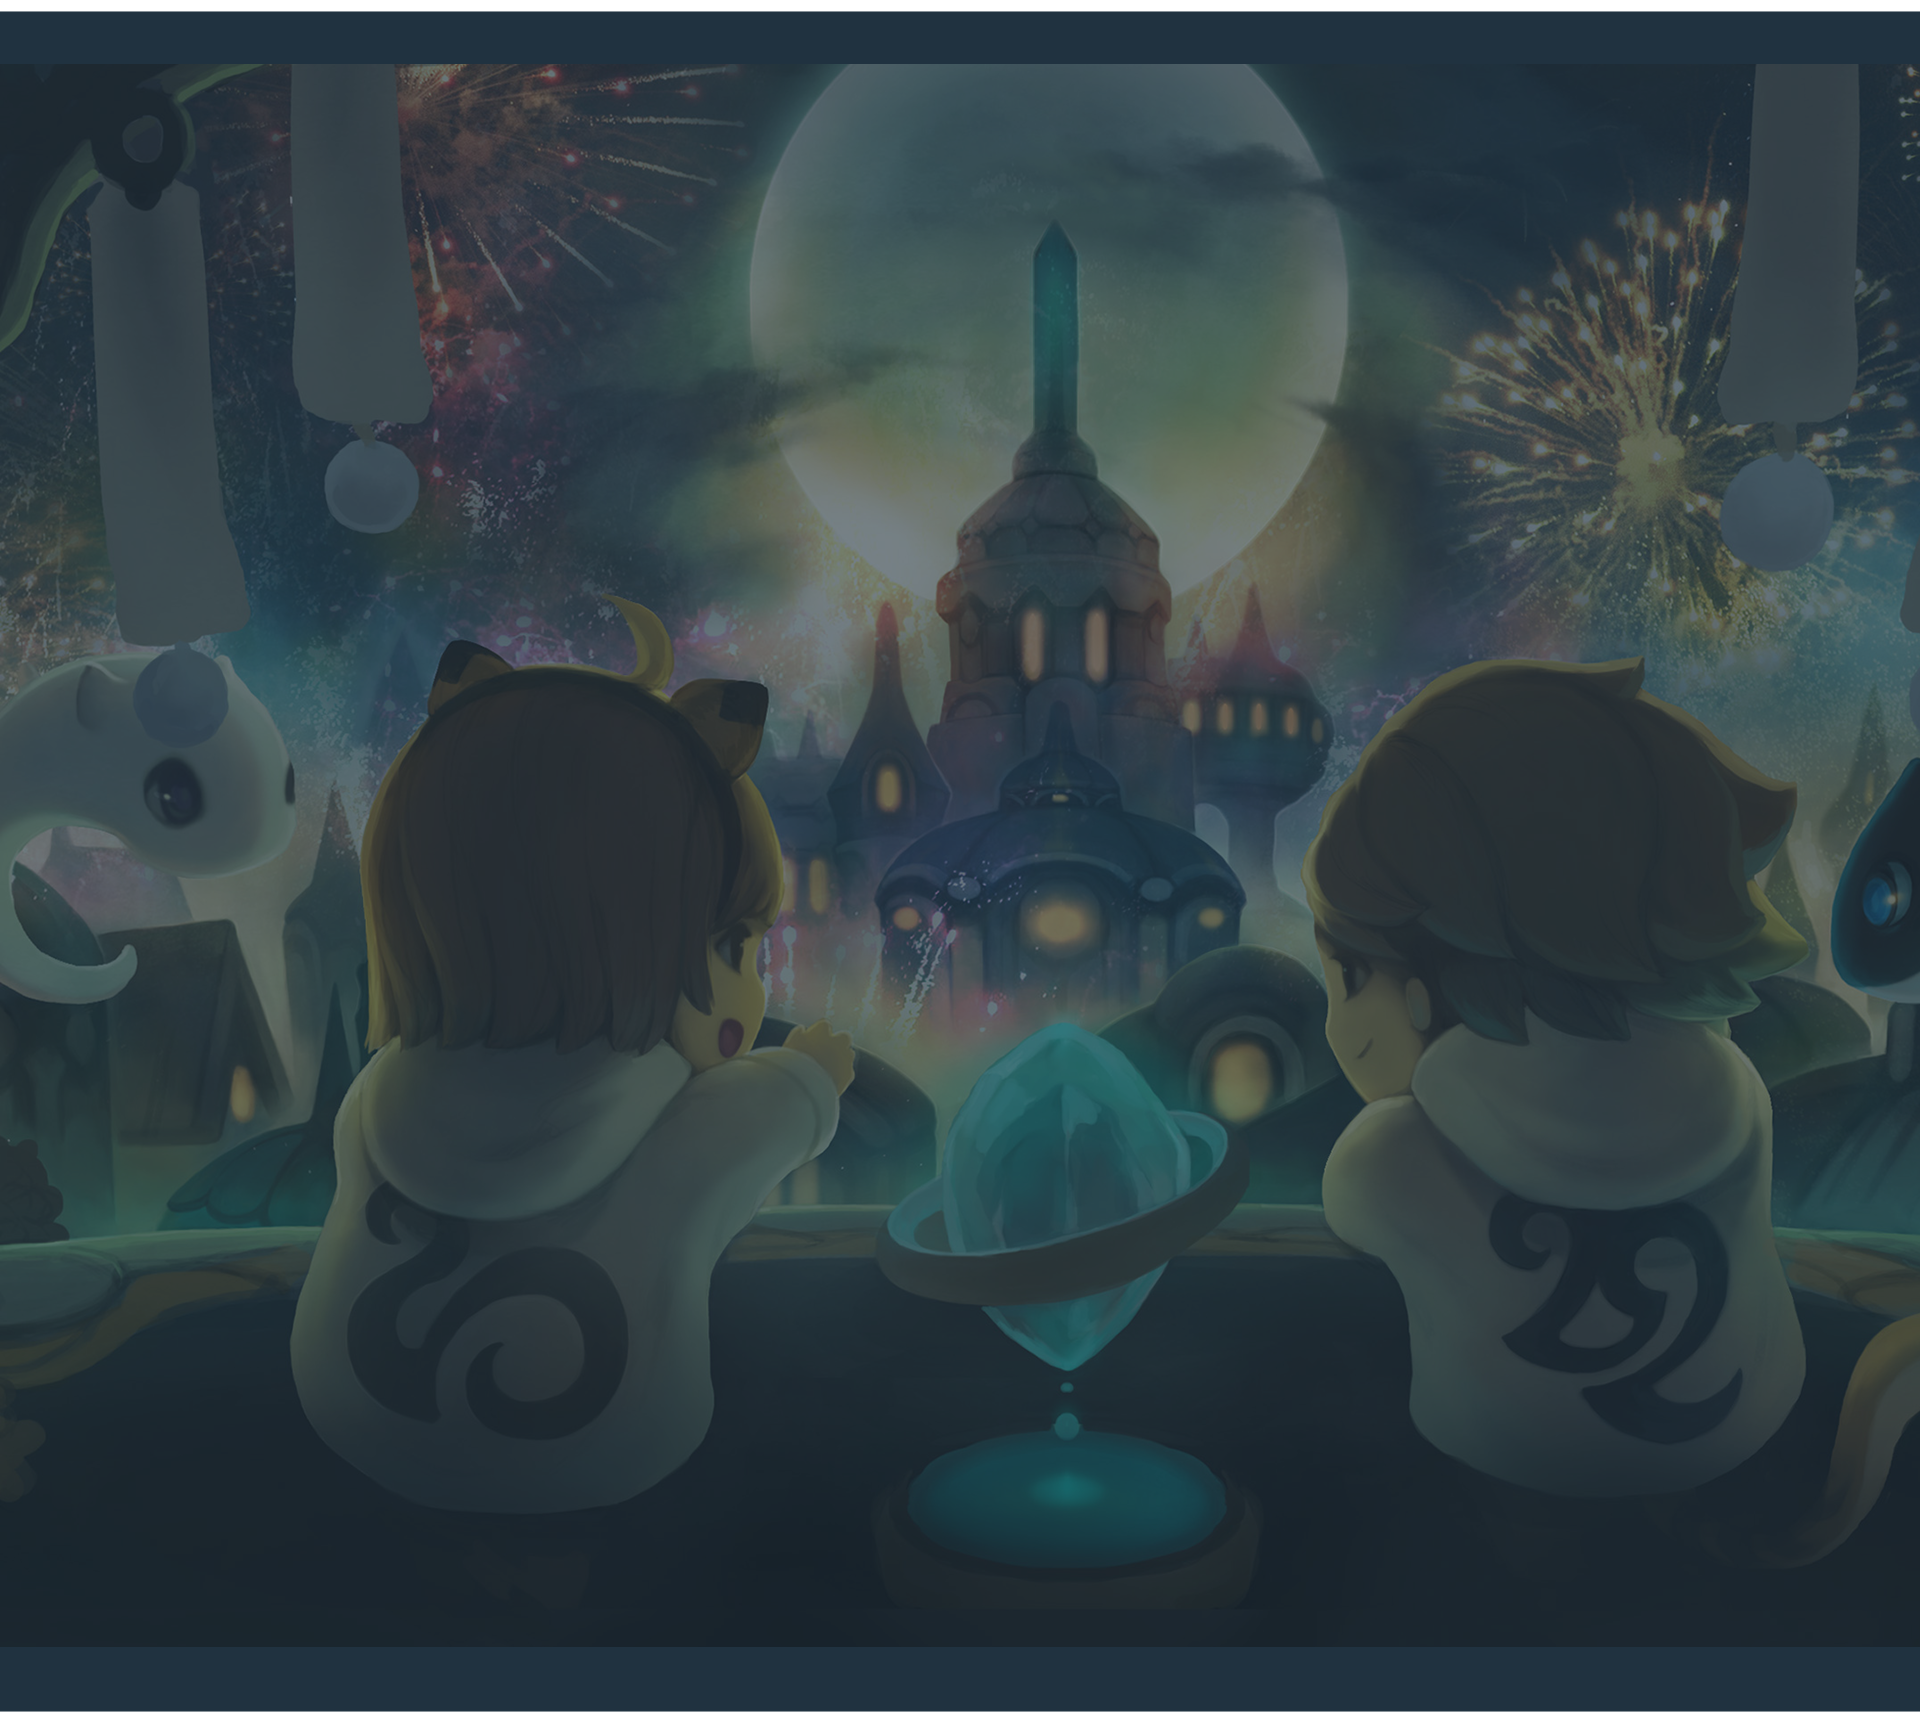
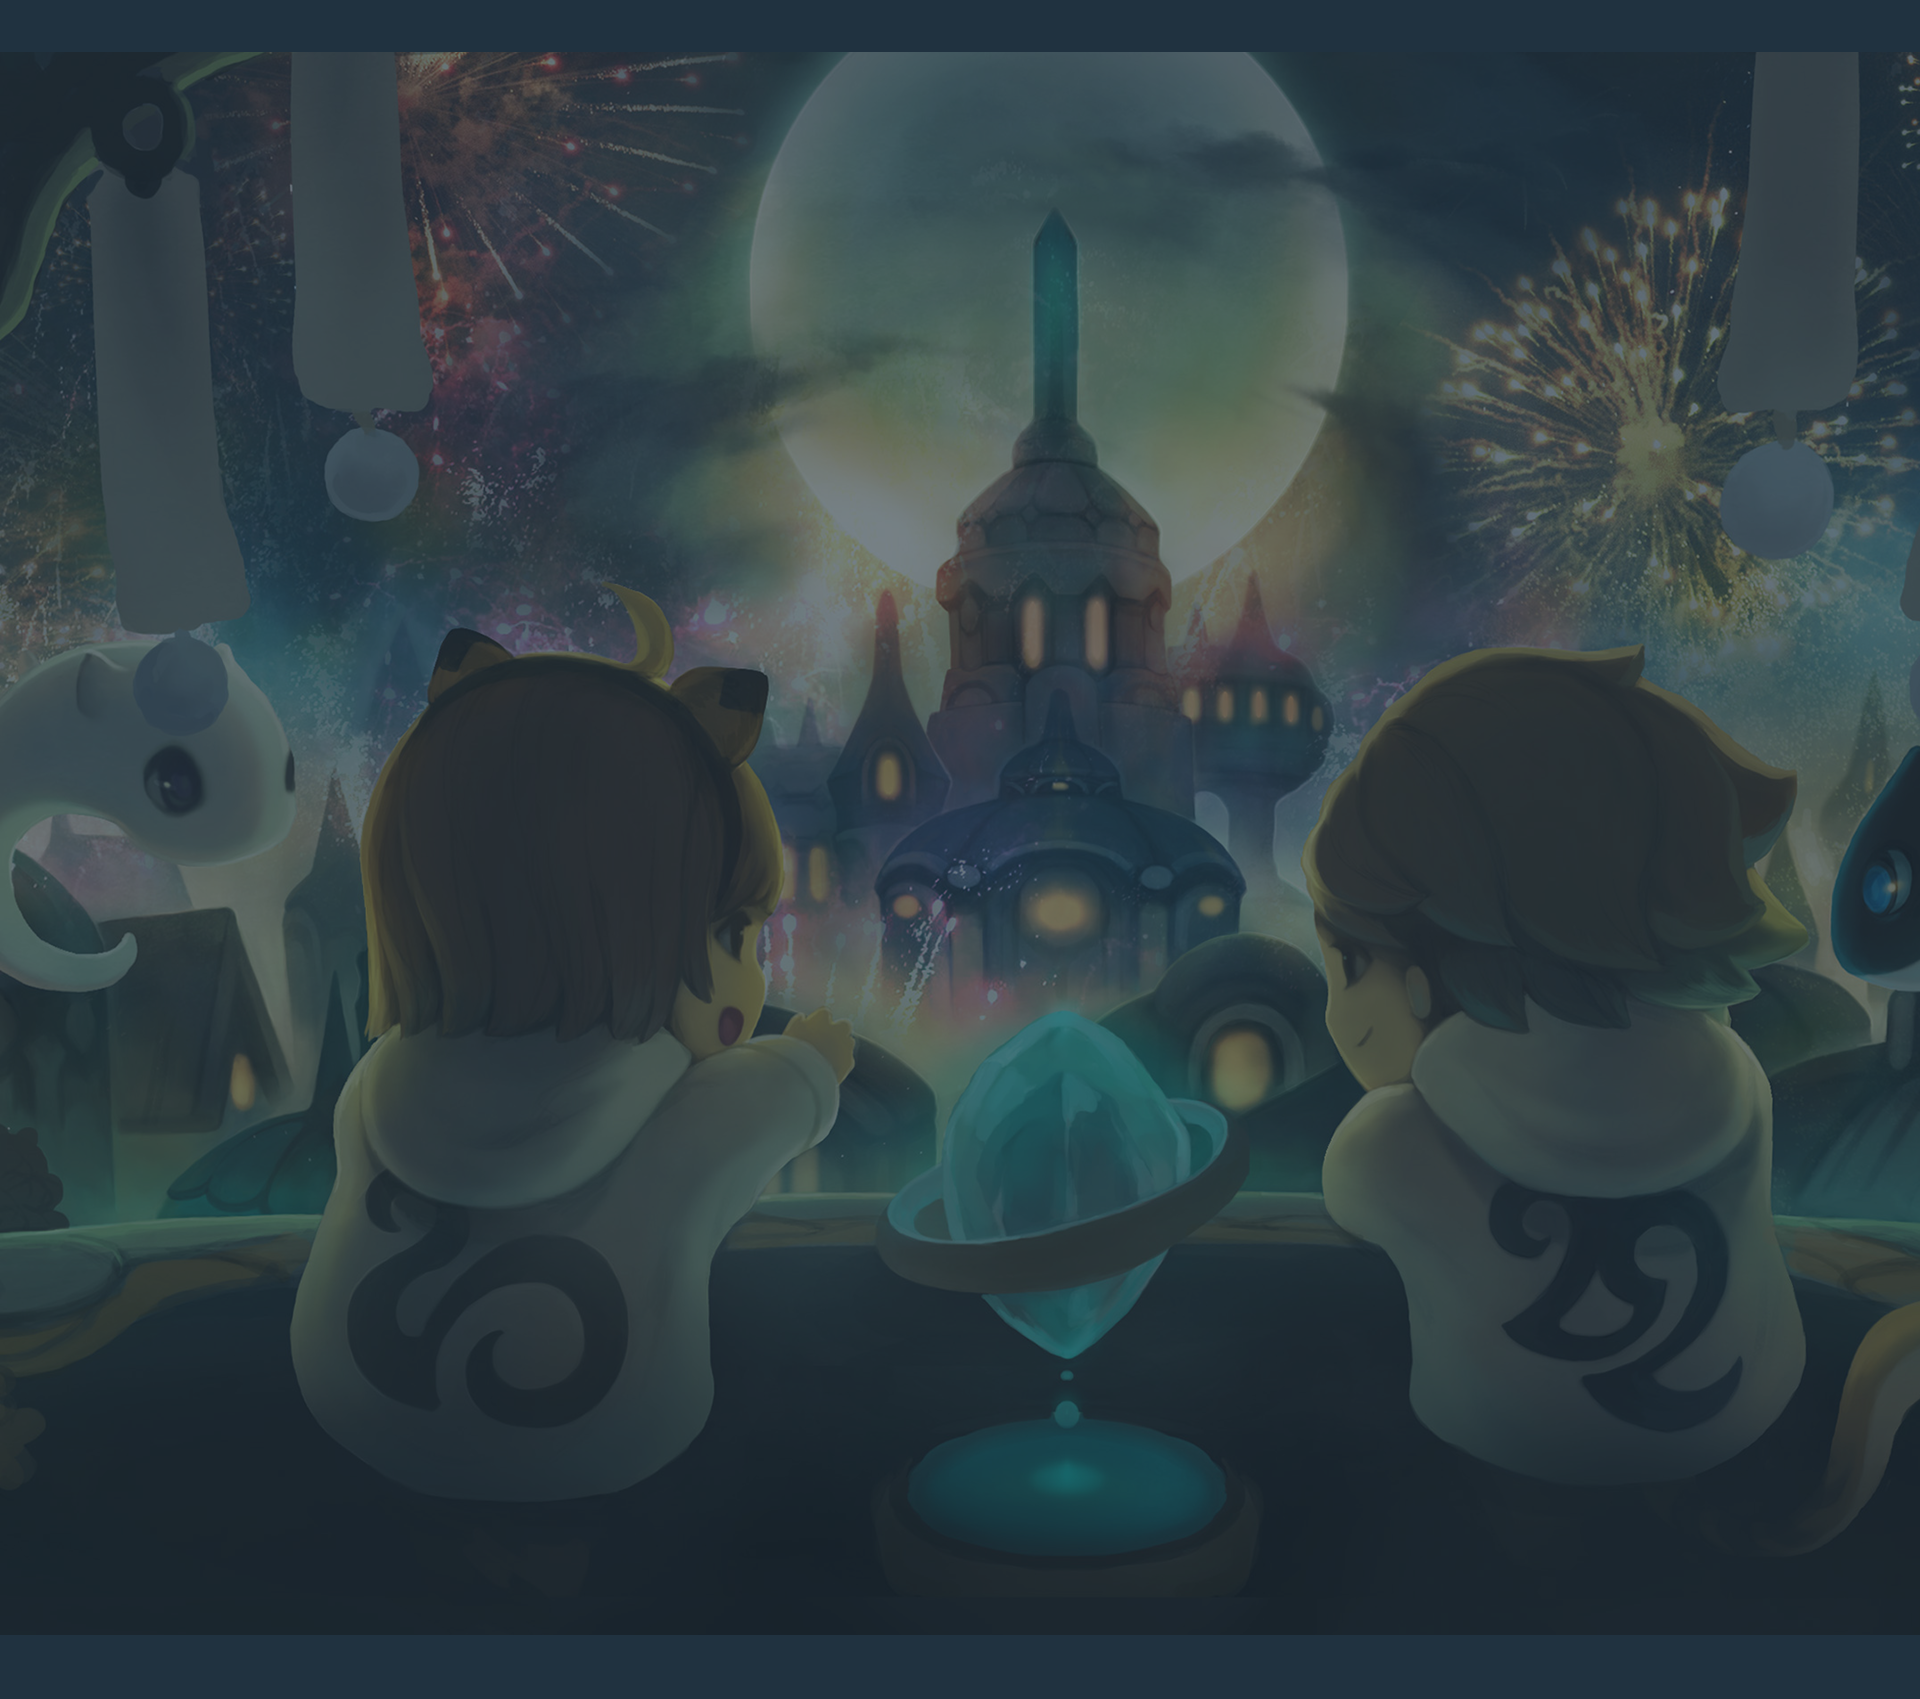
修改按鈕隱藏

diff --git a/SnakeAsianLeague/wwwroot/css/ACLIndex/S3/S3notice.css b/SnakeAsianLeague/wwwroot/css/ACLIndex/S3/S3notice.css
@@ -1,11 +1,16 @@
 /*...Notice...*/
 .Notice {
-
-
+    
 }
-
+.NoticeBG-container {
+    width: 100vw;
+    position: relative;
+}
 .NoticeBG {
-    width:100vw;
+    width: 100vw;
+    position: absolute;
+    transform: scale(1.5);
+    top: -5%;
 }
 
 .Notice_TopTitle {
